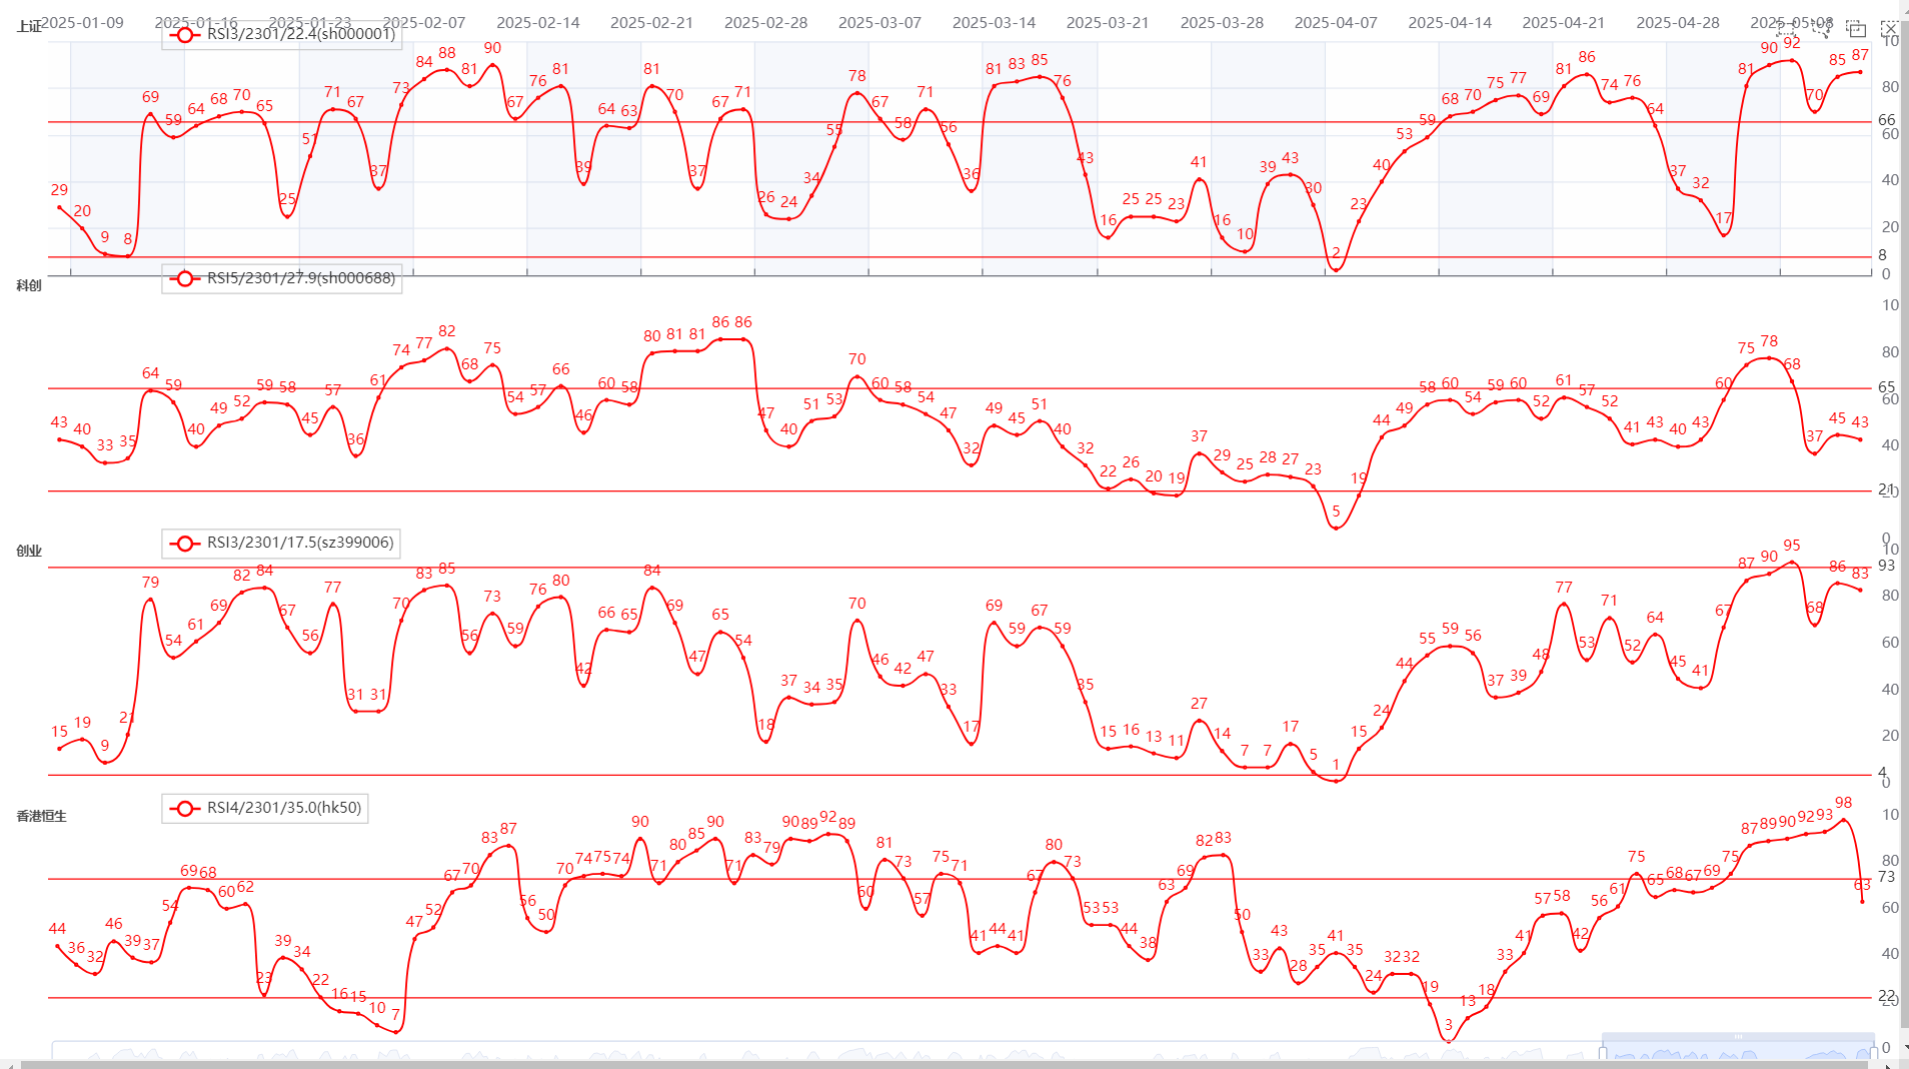
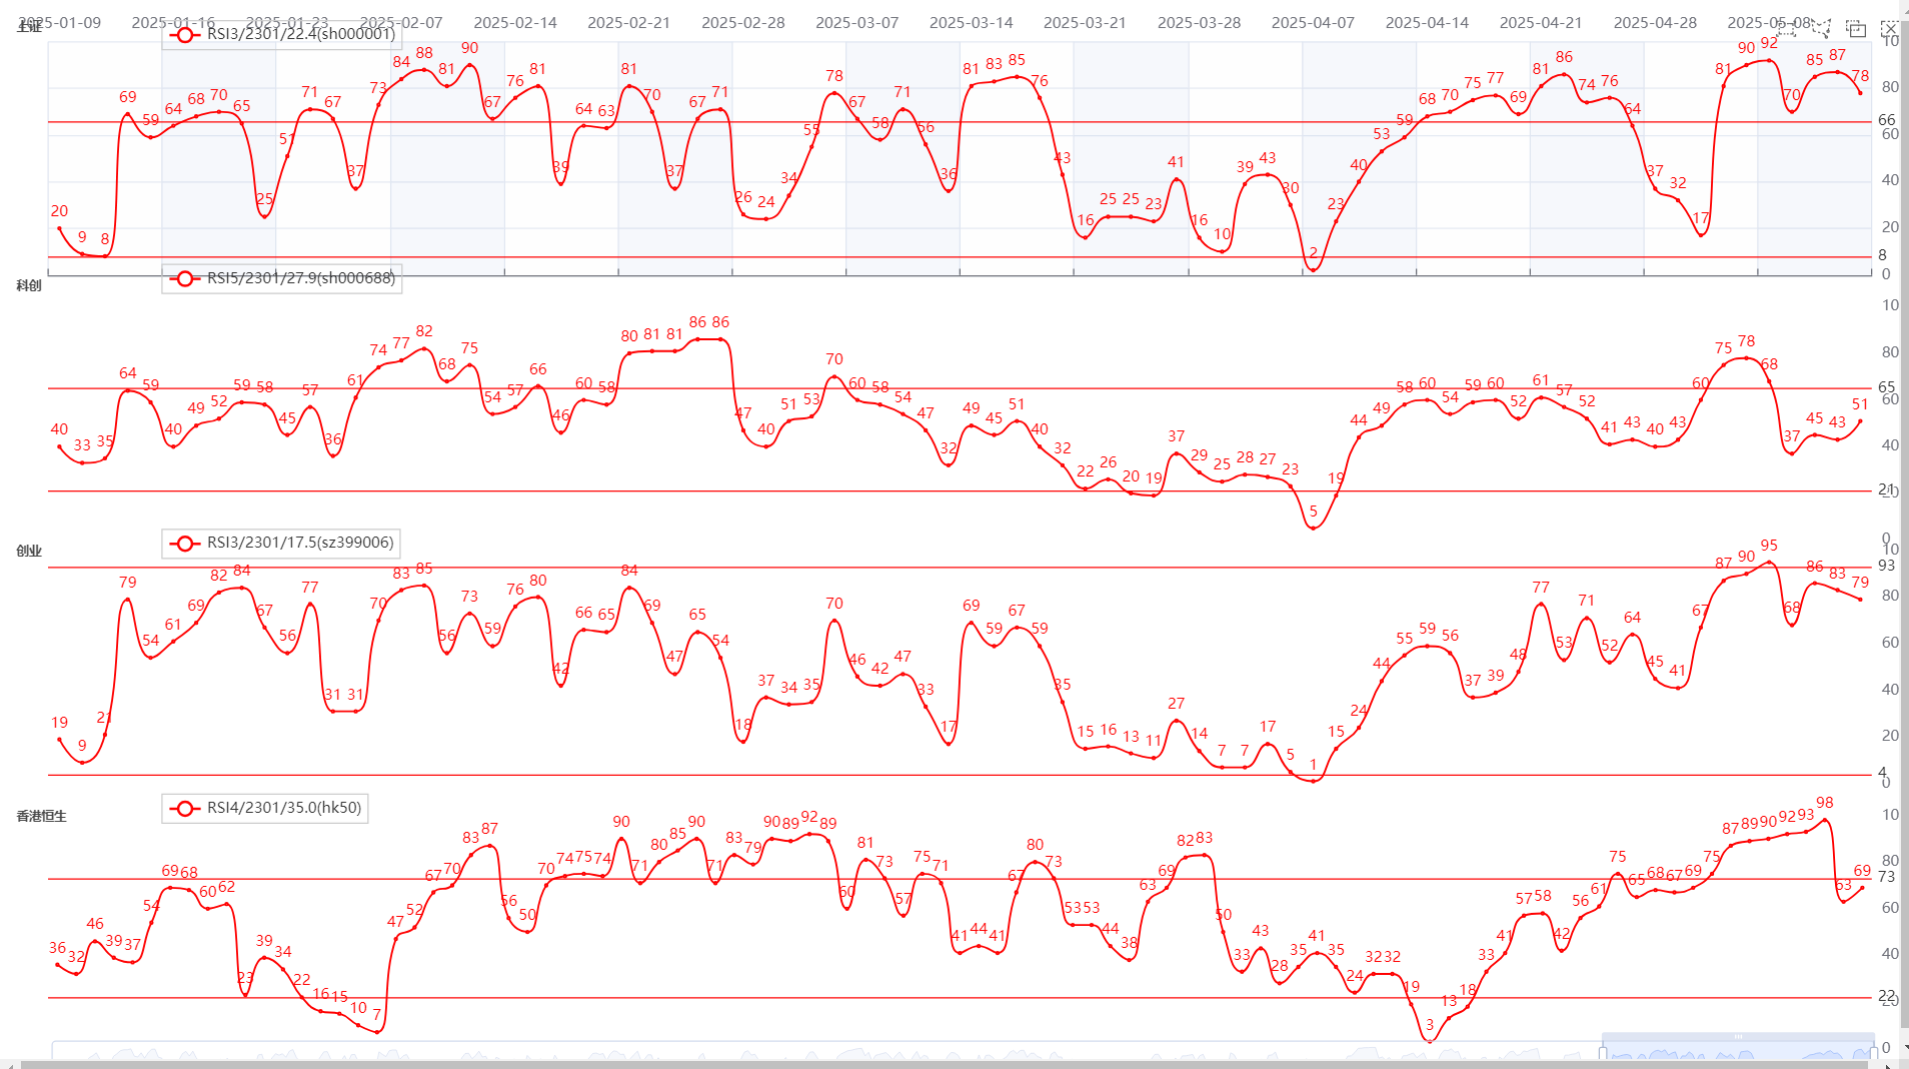
20250514

diff --git a/index_cn.html b/index_cn.html
@@ -13,11 +13,11 @@
     </style>
 </head>
 <body onresize="resizeFresh()"  >
-    <div id="06122ced4693405cbd443034fa51744a" class="chart-container" style="width:100%; height:100%; "></div>
+    <div id="aaf0ae25907b4de3a58583469b613b96" class="chart-container" style="width:100%; height:100%; "></div>
     <script>
-        var chart_06122ced4693405cbd443034fa51744a = echarts.init(
-            document.getElementById('06122ced4693405cbd443034fa51744a'), 'white', {renderer: 'canvas'});
-        var option_06122ced4693405cbd443034fa51744a = {
+        var chart_aaf0ae25907b4de3a58583469b613b96 = echarts.init(
+            document.getElementById('aaf0ae25907b4de3a58583469b613b96'), 'white', {renderer: 'canvas'});
+        var option_aaf0ae25907b4de3a58583469b613b96 = {
     "animation": true,
     "animationThreshold": 2000,
     "animationDuration": 1000,
@@ -2168,6 +2168,10 @@
                 [
                     "2025-05-13",
                     87.0
+                ],
+                [
+                    "2025-05-14",
+                    78.0
                 ]
             ],
             "hoverAnimation": false,
@@ -4352,6 +4356,10 @@
                 [
                     "2025-05-13",
                     43.0
+                ],
+                [
+                    "2025-05-14",
+                    51.0
                 ]
             ],
             "hoverAnimation": false,
@@ -6536,6 +6544,10 @@
                 [
                     "2025-05-13",
                     83.0
+                ],
+                [
+                    "2025-05-14",
+                    79.0
                 ]
             ],
             "hoverAnimation": false,
@@ -6606,60 +6618,56 @@
             "step": false,
             "data": [
                 [
-                    "2022-09-28",
-                    0.0
-                ],
-                [
                     "2022-09-29",
-                    0.0
+                    100.0
                 ],
                 [
                     "2022-09-30",
-                    18.0
+                    100.0
                 ],
                 [
                     "2022-10-03",
-                    11.0
+                    54.0
                 ],
                 [
                     "2022-10-05",
-                    81.0
+                    91.0
                 ],
                 [
                     "2022-10-06",
-                    75.0
+                    84.0
                 ],
                 [
                     "2022-10-07",
-                    55.0
+                    62.0
                 ],
                 [
                     "2022-10-10",
-                    33.0
+                    37.0
                 ],
                 [
                     "2022-10-11",
-                    24.0
+                    27.0
                 ],
                 [
                     "2022-10-12",
-                    21.0
+                    23.0
                 ],
                 [
                     "2022-10-13",
-                    16.0
+                    17.0
                 ],
                 [
                     "2022-10-14",
-                    31.0
+                    32.0
                 ],
                 [
                     "2022-10-17",
-                    33.0
+                    35.0
                 ],
                 [
                     "2022-10-18",
-                    55.0
+                    56.0
                 ],
                 [
                     "2022-10-19",
@@ -6667,7 +6675,7 @@
                 ],
                 [
                     "2022-10-20",
-                    27.0
+                    28.0
                 ],
                 [
                     "2022-10-21",
@@ -9168,6 +9176,10 @@
                 [
                     "2025-05-13",
                     63.0
+                ],
+                [
+                    "2025-05-14",
+                    69.0
                 ]
             ],
             "hoverAnimation": false,
@@ -9920,7 +9932,8 @@
                 "2025-05-08",
                 "2025-05-09",
                 "2025-05-12",
-                "2025-05-13"
+                "2025-05-13",
+                "2025-05-14"
             ]
         },
         {
@@ -10472,7 +10485,8 @@
                 "2025-05-08",
                 "2025-05-09",
                 "2025-05-12",
-                "2025-05-13"
+                "2025-05-13",
+                "2025-05-14"
             ]
         },
         {
@@ -11024,7 +11038,8 @@
                 "2025-05-08",
                 "2025-05-09",
                 "2025-05-12",
-                "2025-05-13"
+                "2025-05-13",
+                "2025-05-14"
             ]
         },
         {
@@ -11048,7 +11063,6 @@
                 }
             },
             "data": [
-                "2022-09-28",
                 "2022-09-29",
                 "2022-09-30",
                 "2022-10-03",
@@ -11688,7 +11702,8 @@
                 "2025-05-08",
                 "2025-05-09",
                 "2025-05-12",
-                "2025-05-13"
+                "2025-05-13",
+                "2025-05-14"
             ]
         }
     ],
@@ -12040,9 +12055,9 @@
         }
     ]
 };
-        chart_06122ced4693405cbd443034fa51744a.setOption(option_06122ced4693405cbd443034fa51744a);
+        chart_aaf0ae25907b4de3a58583469b613b96.setOption(option_aaf0ae25907b4de3a58583469b613b96);
             window.addEventListener('resize', function(){
-                chart_06122ced4693405cbd443034fa51744a.resize();
+                chart_aaf0ae25907b4de3a58583469b613b96.resize();
             })
     </script>
     
